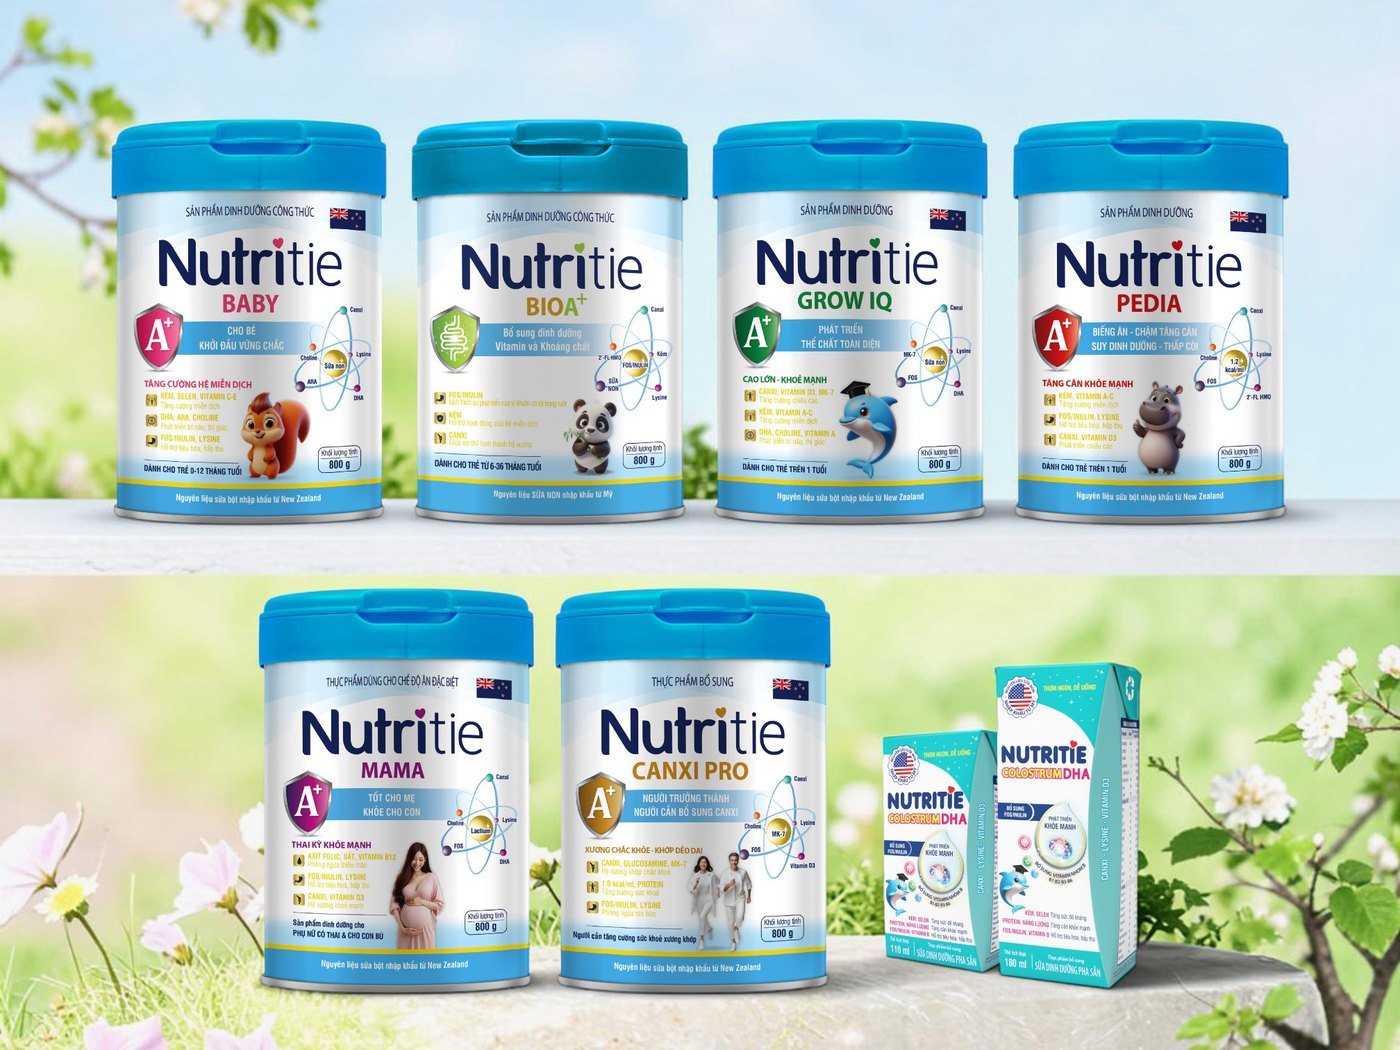
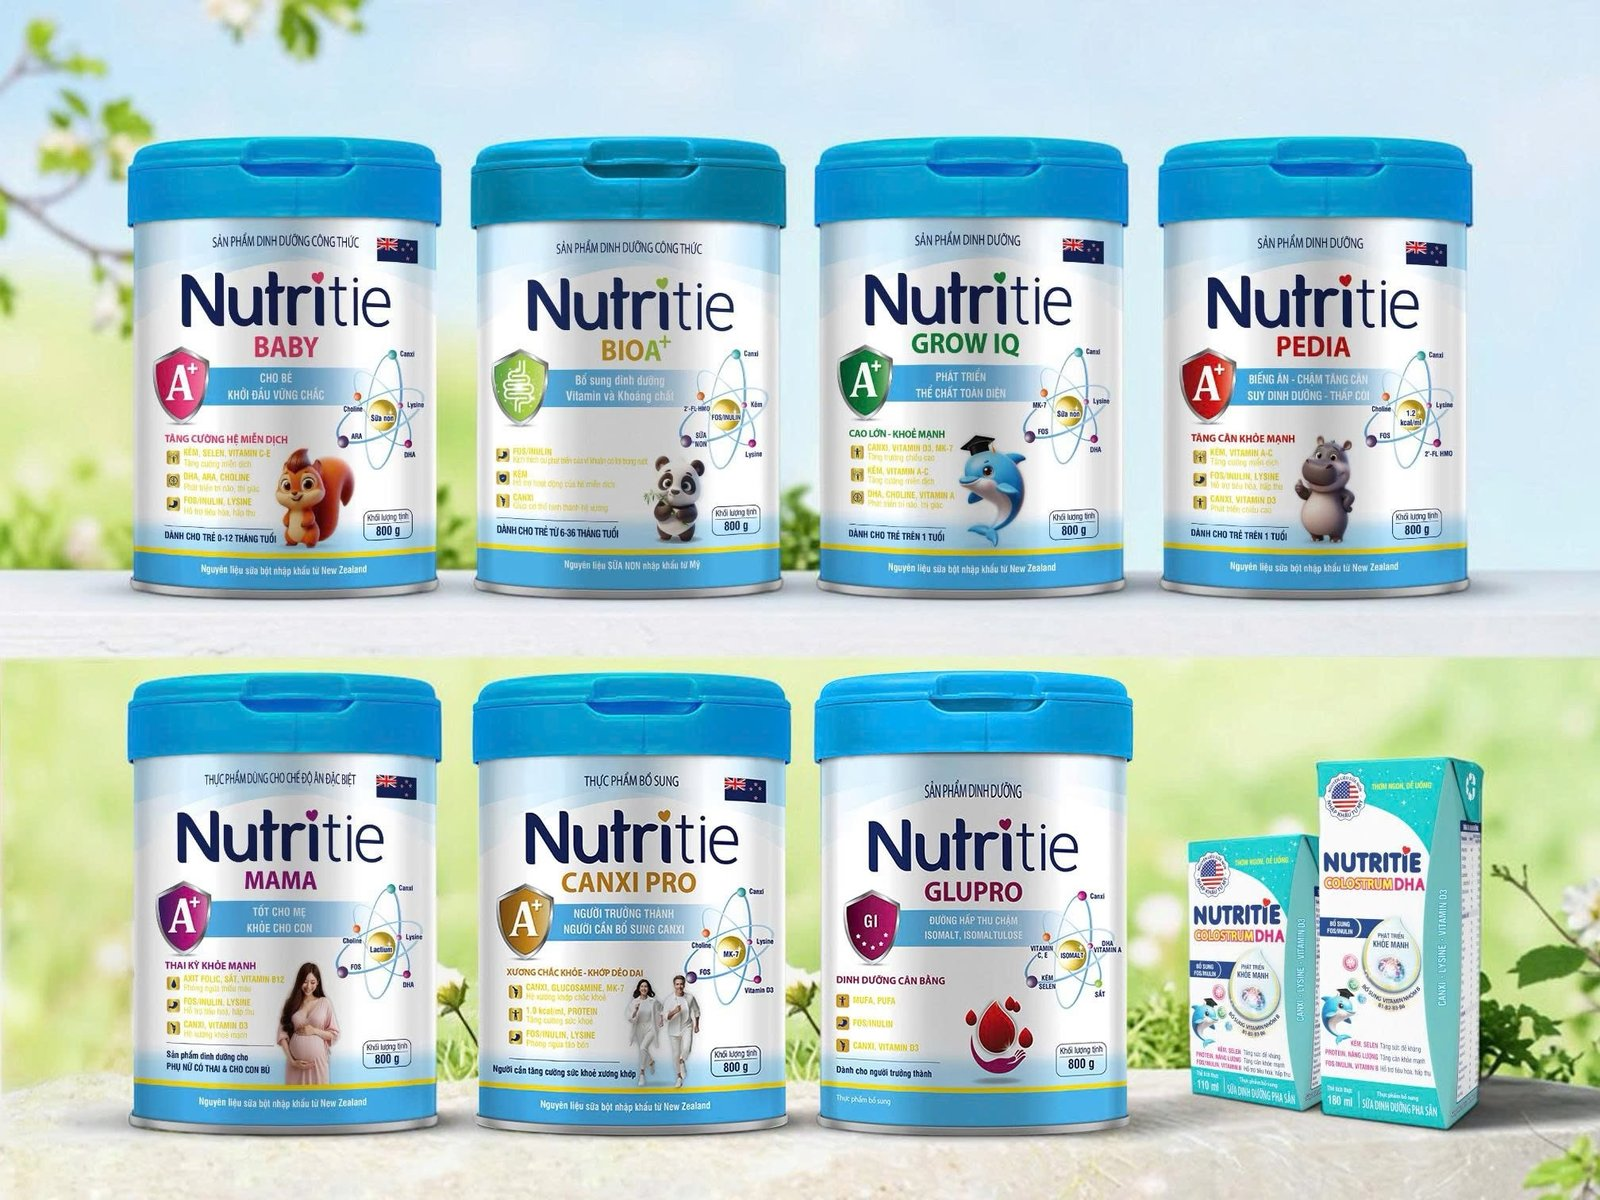
Nutritie: anh bia bo SP moi (1600px, het lech) + them /100g cho Canxi Nano 688mg

diff --git a/index.html b/index.html
@@ -1391,7 +1391,7 @@ var PRODUCTS=[
   ing:"Nước; Sữa bột gầy (7,7%); Đường; Dầu thực vật; Chất xơ hòa tan (FOS/Inulin); Maltodextrin; Chất ổn định (460(i), 466, 407, 339(iii)); Chất nhũ hóa (471); Hương liệu tổng hợp dùng cho thực phẩm; L-Lysine HCl; Bột Canxi nano (418 mg/L); Hỗn hợp Vitamin và Khoáng chất (Vitamin A, D3, E, B1, B2, B6, Niacin, Canxi-D-Pantothenate, Axit Folic, Biotin, Magie Oxid, Sắt (III) Pyrophosphat, Kẽm Oxid, Đồng Sulphat, Kali Iodid, Mangan Sulphat, Natri Selenit); Sữa non (156 mg/L); Chất béo giàu DHA (83 mg/L); Chất chống oxy hóa (307b); 2'-Fucosyllactose/2'-FL HMO (10 mg/L). Có chứa sữa, đậu nành, dầu cá.",usage:"Ngon hơn khi uống lạnh. Không dùng cho trẻ <1 tuổi. Có thể gặp sự lắng đọng tự nhiên, lắc kỹ trước khi sử dụng. Dùng ngay sau khi mở.",storage:"Bảo quản nơi khô ráo, thoáng mát, tránh ánh nắng trực tiếp. Ngon hơn khi uống lạnh.",
   gold:"Dạng pha sẵn dùng ngay, quy cách 110ml / 180ml. Có thể kết hợp Pedia A+ hoặc Grow IQ A+ cho trẻ từ 1 tuổi hay ốm.",pack:"Sữa pha sẵn — hộp giấy 110ml & 180ml",conv:"Uống liền, tiện mang theo — không cần pha",pick:"Bổ sung năng lượng + đề kháng, tiện mang đi ngoài"},
  {id:"canxipro",name:"Nutritie Canxi Pro A+",e:"🦴",grad:"linear-gradient(135deg,#EBF5FB,#85C1E9)",tag:"Người lớn · xương khớp",tl:"Cơ – Xương – Khớp – Thể trạng cho người lớn",audience:"Người trưởng thành/cao tuổi; bổ sung Canxi & xương khớp. Phù hợp cả BMI thấp (tăng cân) và đạt chuẩn (xương khớp).",kcalml:1.004,
-  claims:["Xương: Canxi Nano 688mg/100g + MK-7 + D3 hỗ trợ khoáng hóa, đưa canxi vào xương", "Sụn khớp: Glucosamine Sulphate hỗ trợ khớp dẻo dai", "Khối cơ: đạm Whey hỗ trợ duy trì khối cơ", "Năng lượng 1.0 kcal/ml: hỗ trợ tăng cân, phục hồi thể trạng", "Đề kháng & tiêu hóa: Kẽm, Vitamin C, FOS/Inulin; Vitamin B1, B2, B6 hỗ trợ chuyển hóa năng lượng"], facts:"1.0 kcal/ml (190kcal/190ml). Canxi Nano 688mg + MK-7 + D3. Glucosamine hỗ trợ sụn khớp; Whey hỗ trợ khối cơ.",
+  claims:["Xương: Canxi Nano 688mg/100g + MK-7 + D3 hỗ trợ khoáng hóa, đưa canxi vào xương", "Sụn khớp: Glucosamine Sulphate hỗ trợ khớp dẻo dai", "Khối cơ: đạm Whey hỗ trợ duy trì khối cơ", "Năng lượng 1.0 kcal/ml: hỗ trợ tăng cân, phục hồi thể trạng", "Đề kháng & tiêu hóa: Kẽm, Vitamin C, FOS/Inulin; Vitamin B1, B2, B6 hỗ trợ chuyển hóa năng lượng"], facts:"1.0 kcal/ml (190kcal/190ml). Canxi Nano 688mg/100g + MK-7 + D3. Glucosamine hỗ trợ sụn khớp; Whey hỗ trợ khối cơ.",
   ing:"Sữa bột (20-35%), Dầu thực vật, Maltodextrin, Whey Protein, Sucrose, Soy Protein, Chất xơ hòa tan (FOS/Inulin), Khoáng chất (Canxi, Magie, Sắt, Kẽm, Đồng, Iot, Mangan), Glucosamine sulphate, Vitamin (Vitamin A, Vitamin D3, Vitamin K1, Vitamin C, Vitamin B1, Vitamin B2, Vitamin B6, Vitamin B12, Axit Pantothenic, Axit Folic, Biotin), Menaquinone-7 (MK-7), Hương liệu tổng hợp dùng cho thực phẩm. Có chứa sữa, đậu nành.",usage:"4 muỗng gạt (≈46g) + 160ml nước 50°C → ly ≈190ml; 2–3 ly/ngày, uống sau ăn.",storage:"Nhiệt độ phòng, khô mát; mở dùng trong 3 tuần; không để tủ lạnh.",
   gold:"SKU dành cho người lớn (tăng cân + xương khớp). Không uống cùng lúc Sắt/Kẽm liều cao (cách ≥2 giờ).",pack:"Lon bột 800g",conv:"Pha nước ấm — dùng tại nhà",pick:"Người lớn cần bổ sung canxi, chắc xương khớp / tăng cân"},
  {id:"mama",name:"Nutritie Mama A+",e:"🤰",grad:"linear-gradient(135deg,#FDEDEC,#EC7063)",tag:"Mẹ bầu & sau sinh",tl:"Mẹ được chăm sóc — Thai kỳ đủ dưỡng chất",audience:"Phụ nữ mang thai, sau sinh và đang cho con bú.",kcalml:0.87,
@@ -1772,7 +1772,7 @@ function recommend(){var o=S.user.obj,c=S.cls,n=S.needs,low=c&&c.status==="low",
    else if(!low&&(c&&c.status==="high")){ids=[];why.push(n.indexOf("Loãng xương")>=0?"BMI trên chuẩn (thừa cân/béo phì) → KHÔNG tư vấn Nutritie Canxi Pro A+ vì đây là sữa CAO NĂNG LƯỢNG (1.0 kcal/ml), thêm năng lượng không phù hợp khi đang thừa cân. Nhu cầu canxi / xương khớp: bổ sung qua chế độ ăn giàu canxi, vận động và khám chuyên gia dinh dưỡng / cơ xương khớp.":"BMI trên chuẩn / khách muốn kiểm soát cân nặng → Nutritie chưa có SKU phù hợp (Canxi Pro A+ là sữa cao năng lượng, không phải sản phẩm giảm cân). Hướng dẫn cân đối khẩu phần, vận động và gặp chuyên gia dinh dưỡng.");}
    else if(!low&&n.indexOf("Ăn kiêng / kiểm soát cân nặng")>=0){ids=[];why.push("Khách muốn kiểm soát cân nặng → Nutritie chưa có SKU GI thấp / giảm cân phù hợp (Canxi Pro A+ là sữa cao năng lượng). Hướng dẫn cân đối khẩu phần, vận động và gặp chuyên gia dinh dưỡng.");}
    else if(low){ids=["canxipro"];why.push("Người lớn BMI thấp cần tăng cân/phục hồi → Canxi Pro A+ (1.0 kcal/ml).");}
-   else{ids=["canxipro"];why.push("Loãng xương/xương khớp (BMI đạt chuẩn) → Canxi Pro A+ (Canxi Nano 688mg + MK-7 + Glucosamine).");}
+   else{ids=["canxipro"];why.push("Loãng xương/xương khớp (BMI đạt chuẩn) → Canxi Pro A+ (Canxi Nano 688mg/100g + MK-7 + Glucosamine).");}
  } else {
    ids=["mama"];why.push("Mẹ bầu/sau sinh → Mama A+ (Axit Folic, Sắt, DHA, Canxi + MK-7, Lactium hỗ trợ ngủ ngon).");
    if(S.user.postpartum&&(n.indexOf("Chuột rút / đau xương khớp")>=0||low)){ids.push("canxipro");why.push("Mẹ sau sinh bị chuột rút / đau xương khớp hoặc cần phục hồi thể trạng → kết hợp thêm Canxi Pro A+ (cách Sắt/Kẽm liều cao ≥ 2 giờ).");}
@@ -1856,7 +1856,7 @@ function weeklyCardHTML(){
   +'<div class="ms-list">'+rows+'</div></div>';
 }
 /* Banner bộ 7 sản phẩm (ảnh chị Thúy gửi). Chỉ PG thấy; không đưa vào chế độ Trình khách vì có hình lon Baby/Bio (trẻ dưới 24 tháng, NĐ 100). */
-function boBanner(go_){ return '<div class="bo-ban'+(go_?' press':'')+'"'+(go_?' onclick="go(\'sp\')" style="cursor:pointer"':'')+'><img src="assets/bo-nutritie.jpg?v=5" alt="Bộ sản phẩm Nutritie" onerror="this.parentNode.remove()"></div>'; }
+function boBanner(go_){ return '<div class="bo-ban'+(go_?' press':'')+'"'+(go_?' onclick="go(\'sp\')" style="cursor:pointer"':'')+'><img src="assets/bo-nutritie.jpg?v=6" alt="Bộ sản phẩm Nutritie" onerror="this.parentNode.remove()"></div>'; }
 function renderHome(){
  var zr=ZONES.map(function(z){return '<div class="zcard press" onclick="startTV()" style="--zc:'+z[3]+'"><div class="zi"><img src="'+zicon(z[0])+'" alt="" onerror="this.style.display=\'none\'"></div><div class="zn">'+z[0]+'</div><div class="zd">'+z[1]+'</div><span class="zbadge">'+z[2]+'</span></div>';}).join('');
  var tr=TRUST.map(function(t){return '<div class="trust-it"><div class="ti" style="background:'+t[4]+'">'+ic(t[3])+'</div><div style="flex:1"><b>'+t[1]+'</b><span>'+t[2]+'</span></div><span class="chk">'+ic('check_circle')+'</span></div>';}).join('');
@@ -2124,7 +2124,7 @@ var CLOSE={
  growiq:["Mục tiêu chiều cao / trí não: nhấn Canxi + D3 + MK-7 (đưa canxi vào xương) và DHA.","Dùng khi bé đã đạt cân nặng chuẩn — kết hợp vận động và ngủ đủ.","Hẹn đo chiều cao mỗi tháng để khách thấy hiệu quả."],
  bio:["Bé mới chuyển sữa / tiêu hóa nhạy: nhấn FOS/Inulin + đậm độ vừa phải; pha loãng hơn lúc đầu.","Vai trò chuyển tiếp giữa Baby và Pedia — bé quen dần rồi tăng dần."],
  mama:["Mẹ bầu / sau sinh: nhấn Axit Folic, Sắt, DHA, Canxi + MK-7, Lactium hỗ trợ ngủ ngon.","Sau sinh cho con bú: dùng tiếp 6 tháng đầu để mẹ đủ dưỡng chất.","Hỏi thêm về bé để tư vấn kèm dòng phù hợp cho con."],
- canxipro:["Người lớn / cao tuổi xương khớp: nhấn Canxi Nano 688mg + MK-7 + Glucosamine.","BMI thấp cần tăng cân: đậm độ 1,0 kcal/ml hỗ trợ phục hồi thể trạng.","Uống sau ăn, cách sắt/kẽm liều cao ít nhất 2 giờ."],
+ canxipro:["Người lớn / cao tuổi xương khớp: nhấn Canxi Nano 688mg/100g + MK-7 + Glucosamine.","BMI thấp cần tăng cân: đậm độ 1,0 kcal/ml hỗ trợ phục hồi thể trạng.","Uống sau ăn, cách sắt/kẽm liều cao ít nhất 2 giờ."],
  colostrum:["Pha sẵn tiện dùng ngay — hợp bé hay ốm, đi học, đi chơi.","Kết hợp cùng Pedia / Grow IQ cho bé từ 1 tuổi."],
  baby:["Trẻ dưới 24 tháng: LUÔN nhắc “Sữa mẹ là thức ăn tốt nhất cho sức khỏe và sự phát triển toàn diện của trẻ nhỏ”. Tư vấn đúng độ tuổi, pha đúng nhãn.","Hỏi tình trạng tiêu hóa / đề kháng của bé để tư vấn phù hợp."]
 };
@@ -2257,7 +2257,7 @@ function doCompare(a,b){var pa=P(a),pb=P(b);sheetin.innerHTML='<div class="ph"><
 var QA=[
  {q:"Baby A+, BioA+ khác nhau ở đâu?",a:"Baby A+ (0–12 tháng, 67kcal/100ml) là công thức chuẩn đầu đời. BioA+ (6–36 tháng, 80kcal/100ml) đậm độ cao hơn + FOS/Inulin 4g/100g — vai trò chuyển tiếp & hỗ trợ tiêu hóa."},
  {q:"Bé biếng ăn nên chọn dòng nào?",a:"Pedia A+ — đậm độ 1.2 kcal/ml + 5 Enzyme, phù hợp bé ăn ít cần bù năng lượng. Nếu bé hay ốm, kết hợp Colostrum DHA."},
- {q:"Người lớn dùng dòng nào?",a:"Người trưởng thành và người cao tuổi dùng Nutritie Canxi Pro A+: hỗ trợ xương khớp (Canxi Nano 688mg + MK-7 + Glucosamine) và tăng cân/phục hồi (1.0 kcal/ml)."},
+ {q:"Người lớn dùng dòng nào?",a:"Người trưởng thành và người cao tuổi dùng Nutritie Canxi Pro A+: hỗ trợ xương khớp (Canxi Nano 688mg/100g + MK-7 + Glucosamine) và tăng cân/phục hồi (1.0 kcal/ml)."},
  {q:"MK-7 là gì mà quan trọng?",a:"MK-7 (Vitamin K2) giúp đưa Canxi vào xương thay vì lắng ở mạch máu. Canxi thiếu MK-7 thì hấp thu vào xương kém hiệu quả hơn."},
  {q:"Khách dị ứng đạm bò / không dung nạp lactose?",a:"Không tư vấn bất kỳ SKU nào (cả 8 đều chứa sữa bột). Khuyên khám chuyên khoa Dị ứng–Miễn dịch."},
  {q:"Tiểu đường / tiểu đường thai kỳ?",a:"Người trưởng thành: có thể tham khảo Nutritie Glupro (GI thấp — HỖ TRỢ dinh dưỡng, KHÔNG thay thế thuốc, vẫn khám bác sĩ). Trẻ em: chưa có SKU phù hợp. Tiểu đường thai kỳ: KHÔNG dùng Mama A+, đi khám ngay."}
@@ -3840,7 +3840,7 @@ function asstNutri(d){
  if(/(tao bon|tieu hoa|kho tieu|day hoi|doi sua|chuyen sua|di ngoai|hap thu kem)/.test(d)) return '🌿 Tiêu hóa / táo bón / đổi sữa: '+SCI.digest+'\n👉 **Nutritie BioA+** (FOS/Inulin 4g/100g) hỗ trợ tiêu hóa & chuyển sữa nhẹ nhàng. Cho bé uống đủ nước và tăng chất xơ.';
  if(/(tri nao|thong minh|dha|hoc tap|ghi nho|tap trung)/.test(d)) return '🧠 Phát triển trí não: '+SCI.brain+'\n👉 Chọn dòng giàu DHA như **Grow IQ A+** hoặc **Colostrum DHA**.';
  if(/(mien dich|hay om|de khang|om vat|kem mien dich|hay benh)/.test(d)) return '🛡 Tăng đề kháng: '+SCI.immune+'\n👉 Ưu tiên sản phẩm có Sữa non giàu kháng thể + 2\'-FL HMO (Baby A+, Colostrum DHA).';
- if(/(loang xuong|xuong khop|nguoi lon|nguoi gia|cao tuoi)/.test(d)) return '🦴 Xương khớp / người lớn: '+SCI.bone+'\n👉 **Nutritie Canxi Pro A+** (Canxi Nano 688mg + MK-7 + Glucosamine).';
+ if(/(loang xuong|xuong khop|nguoi lon|nguoi gia|cao tuoi)/.test(d)) return '🦴 Xương khớp / người lớn: '+SCI.bone+'\n👉 **Nutritie Canxi Pro A+** (Canxi Nano 688mg/100g + MK-7 + Glucosamine).';
  if(/(me bau|mang thai|thai ky|cho con bu|sau sinh|bau bi)/.test(d)) return '🤰 Mẹ bầu & sau sinh: '+SCI.pregnant+'\n👉 **Nutritie Mama A+** (DHA + Axit Folic + Sắt + Canxi/MK-7 + Lactium).\n\n💛 Lưu ý: Sữa mẹ là thức ăn tốt nhất cho sức khỏe và sự phát triển toàn diện của trẻ nhỏ.';
  if(/(so sinh|tre 0|0.?12 thang|em be moi sinh|tre duoi 1)/.test(d)) return '👶 Trẻ 0–12 tháng: '+SCI.infant+'\n👉 **Nutritie Baby A+** là nền tảng dinh dưỡng đầu đời.\n\n💛 Lưu ý: Sữa mẹ là thức ăn tốt nhất cho sức khỏe và sự phát triển toàn diện của trẻ nhỏ.';
  if(/(tieu duong|duong huyet|gi thap)/.test(d)) return '⚕ Về tiểu đường: '+SCI.diabetAdult+'\n(Trẻ em / mẹ bầu: chưa có SKU phù hợp — hướng dẫn khám bác sĩ.)';
